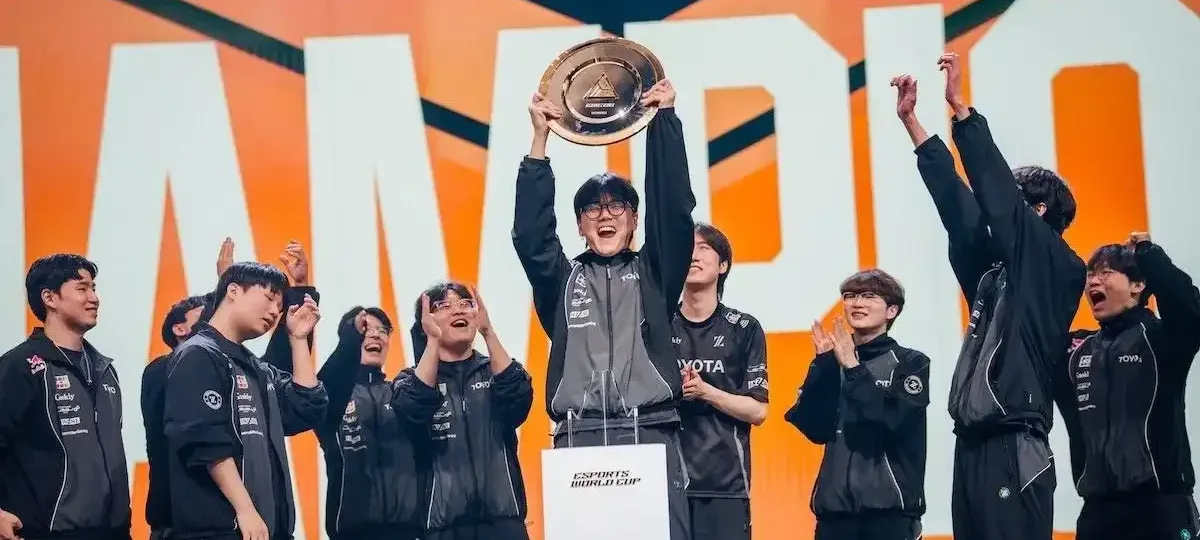
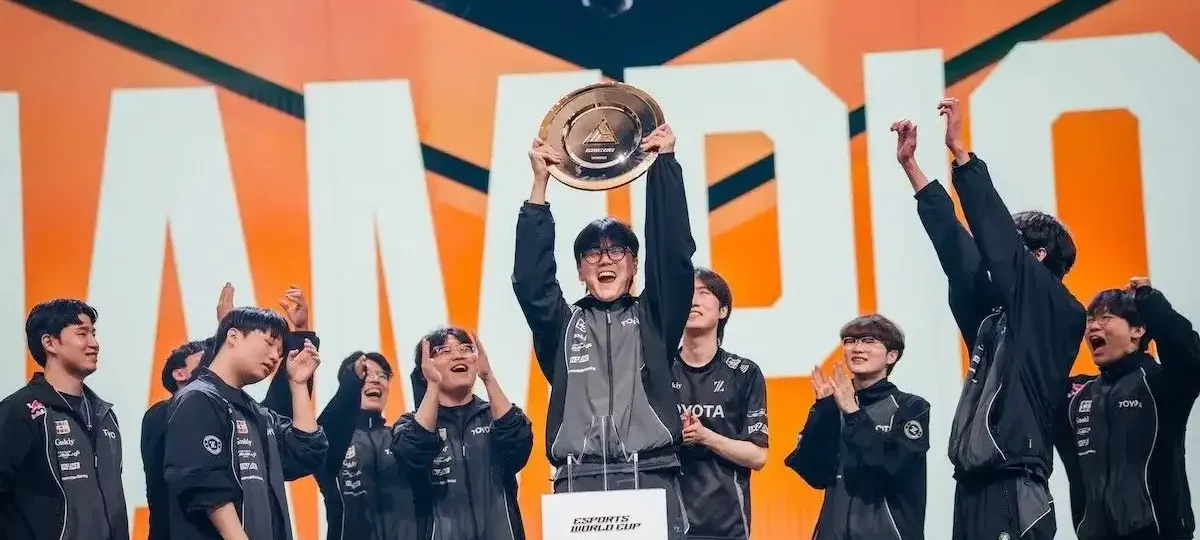
preview 10-23 14:38

diff --git a/OWCS KR 일정.html b/OWCS KR 일정.html
@@ -182,7 +182,7 @@ html[data-owcs-dark] .eyebrow{color:#A3A3AD}
 @media (max-width:899.98px){.csbox{border-radius:18px;margin-bottom:18px}.csbox>h2{padding:14px 14px 8px;font-size:17px}.cr{padding:12px 14px;grid-template-columns:24px minmax(0,1fr) auto}.cr i.lg{width:24px;height:24px}.cr b{font-size:15px}.cr p{font-size:13px}.ct{font-size:12px}.csbox .ms{padding:4px 14px 14px}.csbox .tie{margin:0 14px 14px}}
 html[data-owcs-dark] .ct.out{background:#24242C}
 </style>
-<script src="./owcs-nav.js?v=1023143605"></script>
+<script src="./owcs-nav.js?v=1023143841"></script>
 </head>
 <body class="streams-page sched-page">
 <header><div class="wrap">
@@ -208,13 +208,13 @@ html[data-owcs-dark] .ct.out{background:#24242C}
 </main>
 <footer class="owft"><div class="wrap ft-g"><div><div class="ft-logo"><span class="owt"><b>OW</b>TICKER</span></div><div class="ft-desc">OWCS 한국 경기의 일정, 결과, 선수 정보를 한국 팬을 위해 한곳에 모았어요.</div><div class="ft-ch"><span class="ft-k">OWCS 공식 채널</span><a href="https://x.com/OW_Esports_Asia" target="_blank" rel="noopener"><img src="assets/icons/x.png" alt="">X</a><a href="https://www.instagram.com/ow_esports_kr/" target="_blank" rel="noopener"><img src="assets/icons/instagram.png" alt="">Instagram</a><a href="https://www.sooplive.co.kr/station/owesports" target="_blank" rel="noopener"><img src="assets/icons/soop.png" alt="">SOOP 방송국</a></div></div><div><div class="ft-k">문의</div><a class="ft-mail" href="mailto:dlworhs26@gmail.com" style="display:flex;align-items:center;gap:8px;text-decoration:none"><svg width="22" height="22" viewBox="0 0 24 24" fill="none" stroke="currentColor" stroke-width="1.8" stroke-linecap="round" stroke-linejoin="round" style="flex:none"><rect x="3" y="5" width="18" height="14" rx="3"/><path d="m4 7 8 6 8-6"/></svg>dlworhs26@gmail.com</a><a class="ft-mail" href="https://discord.gg/EEWwKmxKA5" target="_blank" rel="noopener" style="display:flex;align-items:center;gap:8px;margin-left:0;padding:0;text-decoration:none"><img src="assets/icons/discord.png" alt="" style="width:22px;height:22px;border-radius:6px;margin:0;flex:none">OWticker 팬 디스코드 · 피드백</a></div><div class="ft-note">일정은 Liquipedia에서 10분마다 가져와요. 비공식 팬 사이트입니다. Blizzard Entertainment, WDG, 각 팀과 제휴하거나 승인받지 않았습니다. Overwatch®와 영웅 이미지는 Blizzard Entertainment, Inc.의 상표·저작물이고, 팀 로고와 선수 사진의 권리는 각 소유자에게 있으며 요청하면 바로 내립니다.</div></div></footer>
 
-<script src="./owcs-data.js?v=1023143605"></script>
-<script src="./owcs-phase.js?v=1023143605"></script>
-<script src="./owcs-i18n.js?v=1023143605"></script>
-<script src="./owcs-stats.js?v=1023143605"></script>
-<script src="./owcs-dark.js?v=1023143605"></script>
-<script src="./owcs-bracket.js?v=1023143605"></script>
-<script src="./owcs-cases.js?v=1023143605"></script>
+<script src="./owcs-data.js?v=1023143841"></script>
+<script src="./owcs-phase.js?v=1023143841"></script>
+<script src="./owcs-i18n.js?v=1023143841"></script>
+<script src="./owcs-stats.js?v=1023143841"></script>
+<script src="./owcs-dark.js?v=1023143841"></script>
+<script src="./owcs-bracket.js?v=1023143841"></script>
+<script src="./owcs-cases.js?v=1023143841"></script>
 <script>
 (function () {
   var D = window.OWCS || { teams: [], matches: [] };
@@ -445,6 +445,6 @@ html[data-owcs-dark] .ct.out{background:#24242C}
   setTeam(F.team);
 })();
 </script>
-<script src="./owcs-theme-wise.js?v=1023143605"></script>
+<script src="./owcs-theme-wise.js?v=1023143841"></script>
 </body>
 </html>

diff --git a/OWCS KR 방송.html b/OWCS KR 방송.html
@@ -94,7 +94,7 @@ footer{padding:32px 0 56px;background:#0B0B0F;color:#8A8A93;font-size:13px;line-
   .who small,.go{display:none}
 }
 </style>
-<script src="./owcs-nav.js?v=1023143605"></script>
+<script src="./owcs-nav.js?v=1023143841"></script>
 </head>
 <body class="streams-page">
 <header><div class="wrap">
@@ -117,12 +117,12 @@ footer{padding:32px 0 56px;background:#0B0B0F;color:#8A8A93;font-size:13px;line-
 </main>
 <footer class="owft"><div class="wrap ft-g"><div><div class="ft-logo"><span class="owt"><b>OW</b>TICKER</span></div><div class="ft-desc">OWCS 한국 경기의 일정, 결과, 선수 정보를 한국 팬을 위해 한곳에 모았어요.</div><div class="ft-ch"><span class="ft-k">OWCS 공식 채널</span><a href="https://x.com/OW_Esports_Asia" target="_blank" rel="noopener"><img src="assets/icons/x.png" alt="">X</a><a href="https://www.instagram.com/ow_esports_kr/" target="_blank" rel="noopener"><img src="assets/icons/instagram.png" alt="">Instagram</a><a href="https://www.sooplive.co.kr/station/owesports" target="_blank" rel="noopener"><img src="assets/icons/soop.png" alt="">SOOP 방송국</a></div></div><div><div class="ft-k">문의</div><a class="ft-mail" href="mailto:dlworhs26@gmail.com" style="display:flex;align-items:center;gap:8px;text-decoration:none"><svg width="22" height="22" viewBox="0 0 24 24" fill="none" stroke="currentColor" stroke-width="1.8" stroke-linecap="round" stroke-linejoin="round" style="flex:none"><rect x="3" y="5" width="18" height="14" rx="3"/><path d="m4 7 8 6 8-6"/></svg>dlworhs26@gmail.com</a><a class="ft-mail" href="https://discord.gg/EEWwKmxKA5" target="_blank" rel="noopener" style="display:flex;align-items:center;gap:8px;margin-left:0;padding:0;text-decoration:none"><img src="assets/icons/discord.png" alt="" style="width:22px;height:22px;border-radius:6px;margin:0;flex:none">OWticker 팬 디스코드 · 피드백</a></div><div class="ft-note">방송 상태는 CHZZK·SOOP에서 몇 분마다 확인해요. 비공식 팬 사이트입니다. Blizzard Entertainment, WDG, 각 팀과 제휴하거나 승인받지 않았습니다. Overwatch®와 영웅 이미지는 Blizzard Entertainment, Inc.의 상표·저작물이고, 팀 로고와 선수 사진의 권리는 각 소유자에게 있으며 요청하면 바로 내립니다.</div></div></footer>
 
-<script src="./owcs-data.js?v=1023143605"></script>
-<script src="./owcs-datapoll.js?v=1023143605"></script>
-<script src="./owcs-phase.js?v=1023143605"></script>
-<script src="./owcs-i18n.js?v=1023143605"></script>
-<script src="./owcs-stats.js?v=1023143605"></script>
-<script src="./owcs-dark.js?v=1023143605"></script>
+<script src="./owcs-data.js?v=1023143841"></script>
+<script src="./owcs-datapoll.js?v=1023143841"></script>
+<script src="./owcs-phase.js?v=1023143841"></script>
+<script src="./owcs-i18n.js?v=1023143841"></script>
+<script src="./owcs-stats.js?v=1023143841"></script>
+<script src="./owcs-dark.js?v=1023143841"></script>
 <script>
 (function () {
   var D = window.OWCS || { teams: [], players: [], standings: [], live: {} };
@@ -191,6 +191,6 @@ footer{padding:32px 0 56px;background:#0B0B0F;color:#8A8A93;font-size:13px;line-
   }, 60000);
 })();
 </script>
-<script src="./owcs-theme-wise.js?v=1023143605"></script>
+<script src="./owcs-theme-wise.js?v=1023143841"></script>
 </body>
 </html>

diff --git a/OWCS KR Home v6.dc.html b/OWCS KR Home v6.dc.html
@@ -17,18 +17,18 @@
 <meta charset="utf-8">
 <meta name="viewport" content="width=device-width, initial-scale=1">
 <script>window.__resources = window.__resources || {};</script>
-<script src="./owcs-data.js?v=1023143605"></script>
-<script src="./owcs-datapoll.js?v=1023143605"></script>
-<script src="./owcs-phase.js?v=1023143605"></script>
-<script src="./owcs-i18n.js?v=1023143605"></script>
-<script src="./owcs-stats.js?v=1023143605"></script>
-<script src="./owcs-nav.js?v=1023143605"></script>
-<script src="./owcs-test.js?v=1023143605"></script>
-<script src="./owcs-maps.js?v=1023143605"></script>
-<script src="./owcs-bracket.js?v=1023143605"></script>
-<script src="./support.js?v=1023143605"></script>
-<script src="./owcs-theme.js?v=1023143605"></script>
-<script src="./owcs-theme-wise.js?v=1023143605"></script>
+<script src="./owcs-data.js?v=1023143841"></script>
+<script src="./owcs-datapoll.js?v=1023143841"></script>
+<script src="./owcs-phase.js?v=1023143841"></script>
+<script src="./owcs-i18n.js?v=1023143841"></script>
+<script src="./owcs-stats.js?v=1023143841"></script>
+<script src="./owcs-nav.js?v=1023143841"></script>
+<script src="./owcs-test.js?v=1023143841"></script>
+<script src="./owcs-maps.js?v=1023143841"></script>
+<script src="./owcs-bracket.js?v=1023143841"></script>
+<script src="./support.js?v=1023143841"></script>
+<script src="./owcs-theme.js?v=1023143841"></script>
+<script src="./owcs-theme-wise.js?v=1023143841"></script>
 <!-- Section reveal animation: fade-in + zoom-in-95 + slide-in-from-top-2 on each section's content.
      Only adds a temporary data attribute; section markup and styles are untouched. -->
 <style>

diff --git a/OWCS KR Results.dc.html b/OWCS KR Results.dc.html
@@ -16,18 +16,18 @@
 <meta charset="utf-8">
 <meta name="viewport" content="width=device-width, initial-scale=1">
 <script>window.__resources = window.__resources || {};</script>
-<script src="./owcs-data.js?v=1023143605"></script>
-<script src="./owcs-phase.js?v=1023143605"></script>
-<script src="./owcs-i18n.js?v=1023143605"></script>
-<script src="./owcs-stats.js?v=1023143605"></script>
-<script src="./owcs-nav.js?v=1023143605"></script>
-<script src="./owcs-dark.js?v=1023143605"></script>
-<script src="./owcs-test.js?v=1023143605"></script>
-<script src="./owcs-maps.js?v=1023143605"></script>
-<script src="./owcs-bracket.js?v=1023143605"></script>
-<script src="./support.js?v=1023143605"></script>
-<script src="./owcs-theme.js?v=1023143605"></script>
-<script src="./owcs-theme-wise.js?v=1023143605"></script>
+<script src="./owcs-data.js?v=1023143841"></script>
+<script src="./owcs-phase.js?v=1023143841"></script>
+<script src="./owcs-i18n.js?v=1023143841"></script>
+<script src="./owcs-stats.js?v=1023143841"></script>
+<script src="./owcs-nav.js?v=1023143841"></script>
+<script src="./owcs-dark.js?v=1023143841"></script>
+<script src="./owcs-test.js?v=1023143841"></script>
+<script src="./owcs-maps.js?v=1023143841"></script>
+<script src="./owcs-bracket.js?v=1023143841"></script>
+<script src="./support.js?v=1023143841"></script>
+<script src="./owcs-theme.js?v=1023143841"></script>
+<script src="./owcs-theme-wise.js?v=1023143841"></script>
 </head>
 <body>
 <x-dc>

diff --git a/OWCS KR Player.dc.html b/OWCS KR Player.dc.html
@@ -16,16 +16,16 @@
 <meta charset="utf-8">
 <meta name="viewport" content="width=device-width, initial-scale=1">
 <script>window.__resources = window.__resources || {};</script>
-<script src="./owcs-data.js?v=1023143605"></script>
-<script src="./owcs-phase.js?v=1023143605"></script>
-<script src="./owcs-i18n.js?v=1023143605"></script>
-<script src="./owcs-stats.js?v=1023143605"></script>
-<script src="./owcs-nav.js?v=1023143605"></script>
-<script src="./owcs-dark.js?v=1023143605"></script>
-<script src="./owcs-test.js?v=1023143605"></script>
-<script src="./support.js?v=1023143605"></script>
-<script src="./owcs-theme.js?v=1023143605"></script>
-<script src="./owcs-theme-wise.js?v=1023143605"></script>
+<script src="./owcs-data.js?v=1023143841"></script>
+<script src="./owcs-phase.js?v=1023143841"></script>
+<script src="./owcs-i18n.js?v=1023143841"></script>
+<script src="./owcs-stats.js?v=1023143841"></script>
+<script src="./owcs-nav.js?v=1023143841"></script>
+<script src="./owcs-dark.js?v=1023143841"></script>
+<script src="./owcs-test.js?v=1023143841"></script>
+<script src="./support.js?v=1023143841"></script>
+<script src="./owcs-theme.js?v=1023143841"></script>
+<script src="./owcs-theme-wise.js?v=1023143841"></script>
 <script>
 // mobile/tablet Instagram carousel: one post per screen, swipe (scroll-snap) or the ‹ › buttons on the photo's sides
 (function () {

diff --git a/OWCS KR 직관.html b/OWCS KR 직관.html
@@ -159,7 +159,7 @@ body.ticket-page footer{background:#0B0B0F;color:#8A8A93;border:0}
   #schedule td.mv{grid-area:3/1/4/3}
 }
 </style>
-<script src="./owcs-nav.js?v=1023143605"></script>
+<script src="./owcs-nav.js?v=1023143841"></script>
 </head>
 <body class="ticket-page">
 <header><div class="wrap">
@@ -425,13 +425,13 @@ function draw() {
 }
 draw();
 </script>
-<script src="./owcs-data.js?v=1023143605"></script>
-<script src="./owcs-datapoll.js?v=1023143605"></script>
-<script src="./owcs-phase.js?v=1023143605"></script>
-<script src="./owcs-i18n.js?v=1023143605"></script>
-<script src="./owcs-stats.js?v=1023143605"></script>
-<script src="./owcs-dark.js?v=1023143605"></script>
-<script src="./owcs-theme-wise.js?v=1023143605"></script>
+<script src="./owcs-data.js?v=1023143841"></script>
+<script src="./owcs-datapoll.js?v=1023143841"></script>
+<script src="./owcs-phase.js?v=1023143841"></script>
+<script src="./owcs-i18n.js?v=1023143841"></script>
+<script src="./owcs-stats.js?v=1023143841"></script>
+<script src="./owcs-dark.js?v=1023143841"></script>
+<script src="./owcs-theme-wise.js?v=1023143841"></script>
 <script>
 // owcs-data.js loads after the first paint: redraw with its playoff days, start times and matchups
 if (window.OWCS) draw();

diff --git a/index.html b/index.html
@@ -12,7 +12,7 @@ iframe{border:0;transform-origin:0 0;display:block}
 </style></head><body>
 <header><span id="pages"></span>
 <select id="lang"><option value="">언어: 그대로</option><option value="ko">한국어</option><option value="ja">日本語</option><option value="en">English</option><option value="zh">中文</option></select>
-<button id="reload">새로고침</button><span class="note">미리보기 사이트 · 10-23 14:36 올림 · 진짜 사이트에 아직 안 올라간 수정 포함</span></header>
+<button id="reload">새로고침</button><span class="note">미리보기 사이트 · 10-23 14:38 올림 · 진짜 사이트에 아직 안 올라간 수정 포함</span></header>
 <main id="devs"></main>
 <script>
 const PAGES = [["홈", "OWCS KR Home v6.dc.html"], ["일정", "OWCS KR 일정.html"], ["결과", "OWCS KR Results.dc.html"], ["선수", "OWCS KR Player.dc.html"], ["방송", "OWCS KR 방송.html"], ["직관", "OWCS KR 직관.html"]], SIZES = [["PC", 1440, 900], ["태블릿", 768, 1024], ["모바일", 375, 812]];
